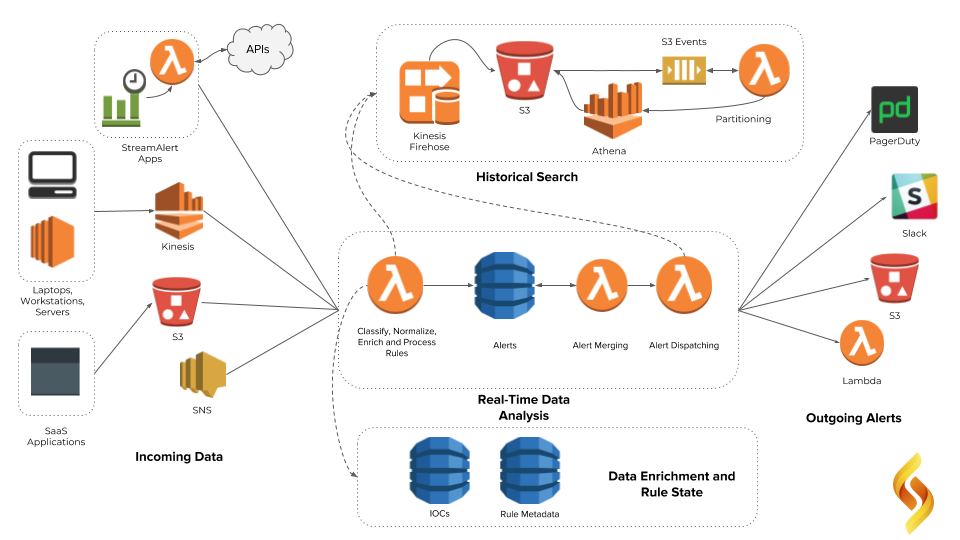
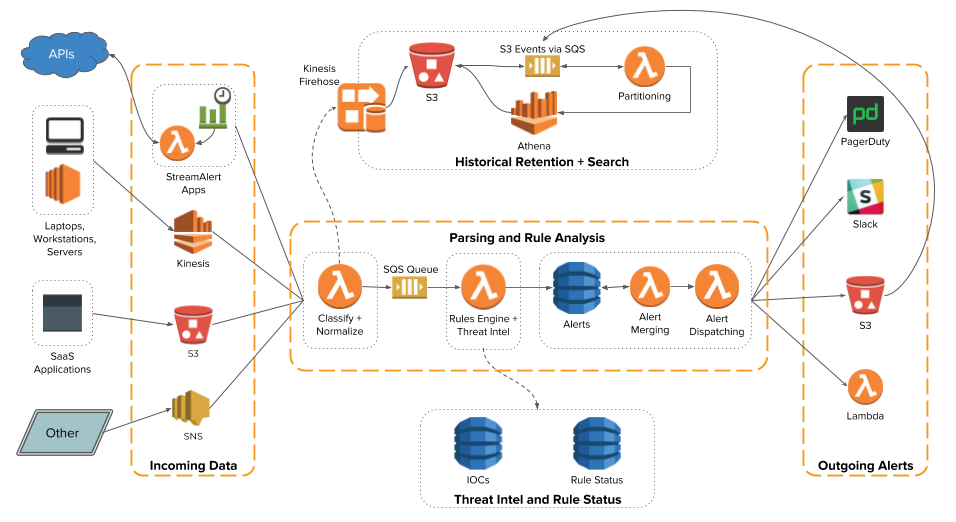
merging 2.1.6 changes into release-2-2-0 branch (#916)
* [bug] fixing issue with trying to send empty batch to firehose (#902) (#903)

* fixing issue with trying to send empty batch to firehose (#902)

* logging metric if record is too large to send to SQS

* enforce ssl access only on all S3 buckets (#905)

* enforcing ssl only access on all streamalert s3 buckets

* updating unit tests for s3 bucket resource creation

* fixing duplicate policy bug with cloudtrail bucket (#907)

* adding updated architecture diagram (#912)

* retrying ReadTimeoutError in sqs and firehose clients (#913)

* adding ability to add `Cluster` tag to classifier lambda resource (#914)

* bumping version to 2.1.6 (#915)

diff --git a/tests/unit/stream_alert_cli/terraform/test_generate.py b/tests/unit/stream_alert_cli/terraform/test_generate.py
@@ -50,7 +50,8 @@ class TestTerraformGenerate(object):
             'force_destroy',
             'versioning',
             'logging',
-            'server_side_encryption_configuration'
+            'server_side_encryption_configuration',
+            'policy'
         }
 
         assert_equal(type(bucket), dict)
@@ -142,7 +143,15 @@ class TestTerraformGenerate(object):
                                         '${aws_kms_key.server_side_encryption.key_id}')
                                 }
                             }
-                        }
+                        },
+                        'policy': (
+                            '{"Version": "2012-10-17", "Statement": [{"Resource": '
+                            '["arn:aws:s3:::unit-testing.streamalert.secrets/*", '
+                            '"arn:aws:s3:::unit-testing.streamalert.secrets"], "Effect": '
+                            '"Deny", "Sid": "ForceSSLOnlyAccess", "Action": "s3:*", '
+                            '"Condition": {"Bool": {"aws:SecureTransport": "false"}}, '
+                            '"Principal": "*"}]}'
+                        )
                     },
                     'terraform_remote_state': {
                         'bucket': 'unit-testing.streamalert.terraform.state',
@@ -163,7 +172,15 @@ class TestTerraformGenerate(object):
                                         '${aws_kms_key.server_side_encryption.key_id}')
                                 }
                             }
-                        }
+                        },
+                        'policy': (
+                            '{"Version": "2012-10-17", "Statement": [{"Resource": '
+                            '["arn:aws:s3:::unit-testing.streamalert.terraform.state/*", '
+                            '"arn:aws:s3:::unit-testing.streamalert.terraform.state"], "Effect": '
+                            '"Deny", "Sid": "ForceSSLOnlyAccess", "Action": "s3:*", '
+                            '"Condition": {"Bool": {"aws:SecureTransport": "false"}}, '
+                            '"Principal": "*"}]}'
+                        )
                     },
                     'logging_bucket': {
                         'bucket': 'unit-testing.streamalert.s3-logging',
@@ -190,7 +207,15 @@ class TestTerraformGenerate(object):
                                     'sse_algorithm': 'AES256'
                                 }
                             }
-                        }
+                        },
+                        'policy': (
+                            '{"Version": "2012-10-17", "Statement": [{"Resource": '
+                            '["arn:aws:s3:::unit-testing.streamalert.s3-logging/*", '
+                            '"arn:aws:s3:::unit-testing.streamalert.s3-logging"], "Effect": '
+                            '"Deny", "Sid": "ForceSSLOnlyAccess", "Action": "s3:*", '
+                            '"Condition": {"Bool": {"aws:SecureTransport": "false"}}, '
+                            '"Principal": "*"}]}'
+                        )
                     },
                     'streamalerts': {
                         'bucket': 'unit-testing.streamalerts',
@@ -211,7 +236,15 @@ class TestTerraformGenerate(object):
                                         '${aws_kms_key.server_side_encryption.key_id}')
                                 }
                             }
-                        }
+                        },
+                        'policy': (
+                            '{"Version": "2012-10-17", "Statement": [{"Resource": '
+                            '["arn:aws:s3:::unit-testing.streamalerts/*", '
+                            '"arn:aws:s3:::unit-testing.streamalerts"], "Effect": '
+                            '"Deny", "Sid": "ForceSSLOnlyAccess", "Action": "s3:*", '
+                            '"Condition": {"Bool": {"aws:SecureTransport": "false"}}, '
+                            '"Principal": "*"}]}'
+                        )
                     }
                 },
                 'aws_sns_topic': {

diff --git a/stream_alert/classifier/clients/firehose.py b/stream_alert/classifier/clients/firehose.py
@@ -19,7 +19,7 @@ import re
 
 import backoff
 import boto3
-from botocore.exceptions import ClientError, ConnectionClosedError, ConnectionError
+from botocore.exceptions import ClientError, ConnectionError, HTTPClientError
 
 from stream_alert.shared import CLASSIFIER_FUNCTION_NAME as FUNCTION_NAME
 import stream_alert.shared.helpers.boto as boto_helpers
@@ -54,7 +54,7 @@ class FirehoseClient(object):
     DEFAULT_FIREHOSE_PREFIX = 'streamalert_data_{}'
 
     # Exception for which backoff operations should be performed
-    EXCEPTIONS_TO_BACKOFF = (ClientError, ConnectionClosedError, ConnectionError)
+    EXCEPTIONS_TO_BACKOFF = (ClientError, ConnectionError, HTTPClientError)
 
     # Set of enabled log types for firehose, loaded from configs
     _ENABLED_LOGS = dict()
@@ -99,7 +99,7 @@ class FirehoseClient(object):
             # Check if the max size of the batch has been reached or if the current
             # record will exceed the max batch size and start a new batch
             if ((len(current_batch) == cls.MAX_BATCH_COUNT) or
-                    (current_batch_size + line_len > cls.MAX_BATCH_SIZE)):
+                    (current_batch_size + line_len > cls.MAX_BATCH_SIZE)) and current_batch:
                 yield current_batch[:]
                 current_batch_size = 0
                 del current_batch[:]

diff --git a/stream_alert/classifier/clients/sqs.py b/stream_alert/classifier/clients/sqs.py
@@ -18,7 +18,7 @@ import os
 
 import backoff
 import boto3
-from botocore.exceptions import ClientError, ConnectionClosedError, ConnectionError
+from botocore.exceptions import ClientError, ConnectionError, HTTPClientError
 
 from stream_alert.shared import CLASSIFIER_FUNCTION_NAME as FUNCTION_NAME
 from stream_alert.shared.helpers import boto
@@ -40,7 +40,7 @@ class SQSClientError(Exception):
 class SQSClient(object):
     """SQSClient for sending batches of classified records to the Rules Engine function"""
     # Exception for which backoff operations should be performed
-    EXCEPTIONS_TO_BACKOFF = (ClientError, ConnectionClosedError, ConnectionError)
+    EXCEPTIONS_TO_BACKOFF = (ClientError, ConnectionError, HTTPClientError)
 
     # Maximum amount of times to retry with backoff
     MAX_BACKOFF_ATTEMPTS = 5
@@ -76,6 +76,7 @@ class SQSClient(object):
             size = len(record) + (1 if idx != record_count and batch else 0)
             if size + 2 > cls.MAX_SIZE:
                 LOGGER.error('Record is too large to send to SQS:\n%s', record)
+                MetricLogger.log_metric(FUNCTION_NAME, MetricLogger.SQS_FAILED_RECORDS, 1)
                 continue
 
             if idx == record_count or size + batch_size >= cls.MAX_SIZE:

diff --git a/stream_alert_cli/terraform/lambda_module.py b/stream_alert_cli/terraform/lambda_module.py
@@ -52,7 +52,7 @@ def _tf_vpc_config(lambda_config):
 
 
 def generate_lambda(function_name, zip_file, handler, lambda_config, config,
-                    environment=None, input_event=None):
+                    environment=None, input_event=None, tags=None):
     """Generate an instance of the Lambda Terraform module.
 
     Args:
@@ -63,6 +63,7 @@ def generate_lambda(function_name, zip_file, handler, lambda_config, config,
         config (dict): Parsed config from conf/
         environment (dict): Optional environment variables to specify.
             ENABLE_METRICS and LOGGER_LEVEL are included automatically.
+        tags (dict): Optional tags to be added to this Lambda resource.
 
     Example Lambda config:
         {
@@ -117,7 +118,8 @@ def generate_lambda(function_name, zip_file, handler, lambda_config, config,
         'memory_size_mb': lambda_config['memory'],
         'timeout_sec': lambda_config['timeout'],
         'filename': zip_file,
-        'environment_variables': environment_variables
+        'environment_variables': environment_variables,
+        'tags': tags or {},
     }
 
     # Add Classifier input config from the loaded cluster file

diff --git a/stream_alert_cli/terraform/generate.py b/stream_alert_cli/terraform/generate.py
@@ -89,7 +89,27 @@ def generate_s3_bucket(bucket, logging, **kwargs):
                     'sse_algorithm': sse_algorithm
                 }
             }
-        }
+        },
+        'policy': json.dumps({
+            'Version': '2012-10-17',
+            'Statement': [
+                {
+                    'Sid': 'ForceSSLOnlyAccess',
+                    'Effect': 'Deny',
+                    'Principal': '*',
+                    'Action': 's3:*',
+                    'Resource': [
+                        'arn:aws:s3:::{}/*'.format(bucket),
+                        'arn:aws:s3:::{}'.format(bucket)
+                    ],
+                    'Condition': {
+                        'Bool': {
+                            'aws:SecureTransport': 'false'
+                        }
+                    }
+                }
+            ]
+        })
     }
 
     if sse_algorithm == 'aws:kms':

diff --git a/tests/unit/stream_alert_cli/terraform/test_alert_processor.py b/tests/unit/stream_alert_cli/terraform/test_alert_processor.py
@@ -60,6 +60,7 @@ class TestAlertProcessor(unittest.TestCase):
                         'ENABLE_METRICS': '0',
                         'LOGGER_LEVEL': 'info'
                     },
+                    'tags': {},
                     'errors_alarm_enabled': True,
                     'errors_alarm_evaluation_periods': 1,
                     'errors_alarm_period_secs': 2,
@@ -117,6 +118,7 @@ class TestAlertProcessor(unittest.TestCase):
                         'ENABLE_METRICS': '0',
                         'LOGGER_LEVEL': 'info'
                     },
+                    'tags': {},
                     'filename': 'alert_processor.zip',
                     'function_name': 'unit-testing_streamalert_alert_processor',
                     'handler': 'stream_alert.alert_processor.main.handler',

diff --git a/tests/unit/streamalert_cli/terraform/test_generate_classifier.py b/tests/unit/streamalert_cli/terraform/test_generate_classifier.py
@@ -112,6 +112,9 @@ class TestTerraformGenerateClassifier(object):
                         'LOGGER_LEVEL': 'info',
                         'ENABLE_METRICS': '0'
                     },
+                    'tags': {
+                        'Cluster': 'test'
+                    },
                     'errors_alarm_enabled': True,
                     'errors_alarm_evaluation_periods': 1,
                     'errors_alarm_period_secs': 120,

diff --git a/tests/unit/streamalert_cli/terraform/test_generate_rules_engine.py b/tests/unit/streamalert_cli/terraform/test_generate_rules_engine.py
@@ -101,6 +101,7 @@ class TestTerraformGenerateRuleEngine(object):
                         'LOGGER_LEVEL': 'info',
                         'STREAMALERT_PREFIX': 'unit-test',
                     },
+                    'tags': {},
                     'errors_alarm_enabled': True,
                     'errors_alarm_evaluation_periods': 1,
                     'errors_alarm_period_secs': 120,

diff --git a/tests/unit/stream_alert_cli/terraform/test_rule_promotion.py b/tests/unit/stream_alert_cli/terraform/test_rule_promotion.py
@@ -56,6 +56,7 @@ class TestRulePromotion(object):
                         'ENABLE_METRICS': '0',
                         'LOGGER_LEVEL': 'info'
                     },
+                    'tags': {},
                     'errors_alarm_enabled': True,
                     'errors_alarm_evaluation_periods': 1,
                     'errors_alarm_period_secs': 2,

diff --git a/stream_alert_cli/terraform/classifier.py b/stream_alert_cli/terraform/classifier.py
@@ -94,5 +94,8 @@ def generate_classifier(cluster_name, cluster_dict, config):
         environment={
             'CLUSTER': cluster_name,
             'SQS_QUEUE_URL': '${module.globals.classifier_sqs_queue_url}',
-        }
+        },
+        tags={
+            'Cluster': cluster_name
+        },
     )

diff --git a/tests/unit/streamalert/classifier/clients/test_firehose.py b/tests/unit/streamalert/classifier/clients/test_firehose.py
@@ -105,7 +105,7 @@ class TestFirehoseClient(object):
         ]
 
         result = list(FirehoseClient._record_batches(records))
-        assert_equal(result, [[]])
+        assert_equal(result, [])
         failure_mock.assert_called_with(1)
 
     def test_record_batches_max_batch_count(self):

diff --git a/stream_alert/__init__.py b/stream_alert/__init__.py
@@ -1,2 +1,2 @@
 """StreamAlert version."""
-__version__ = '2.1.5'
+__version__ = '2.1.6'
